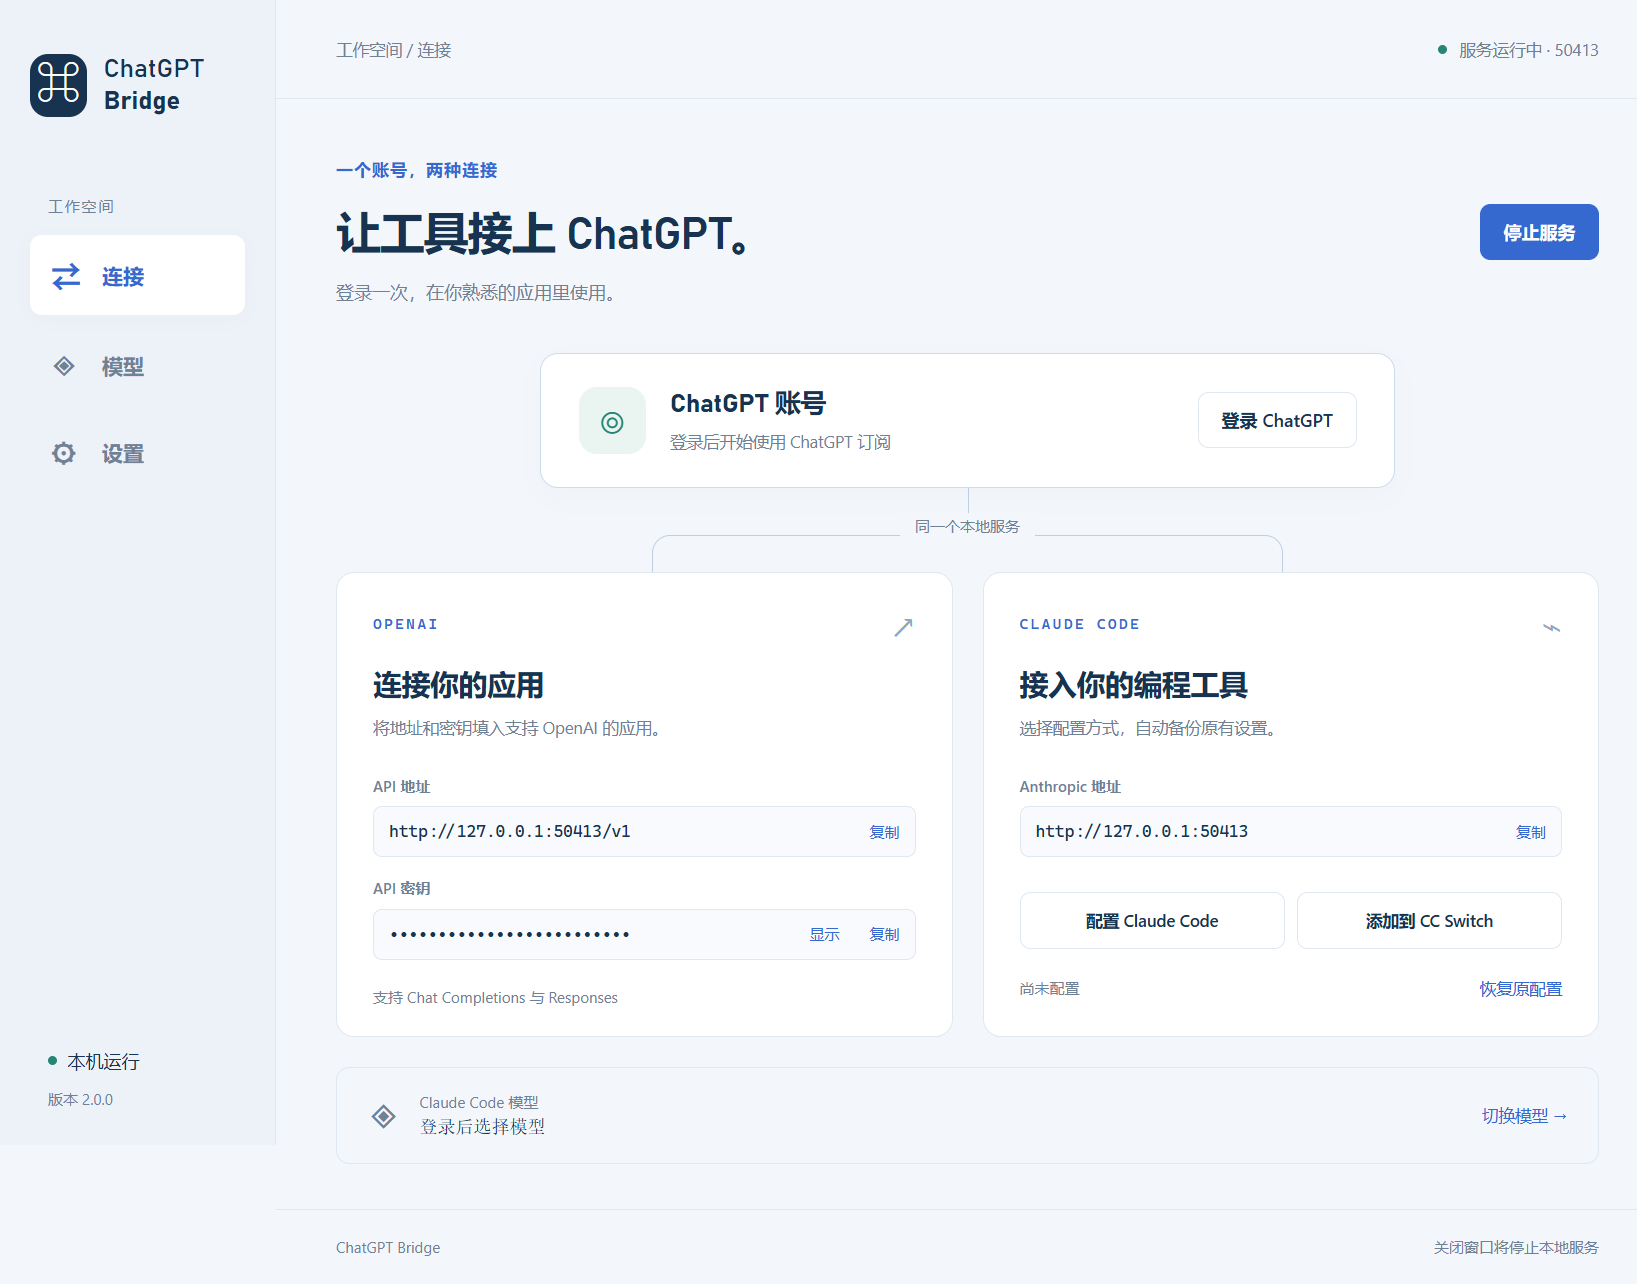
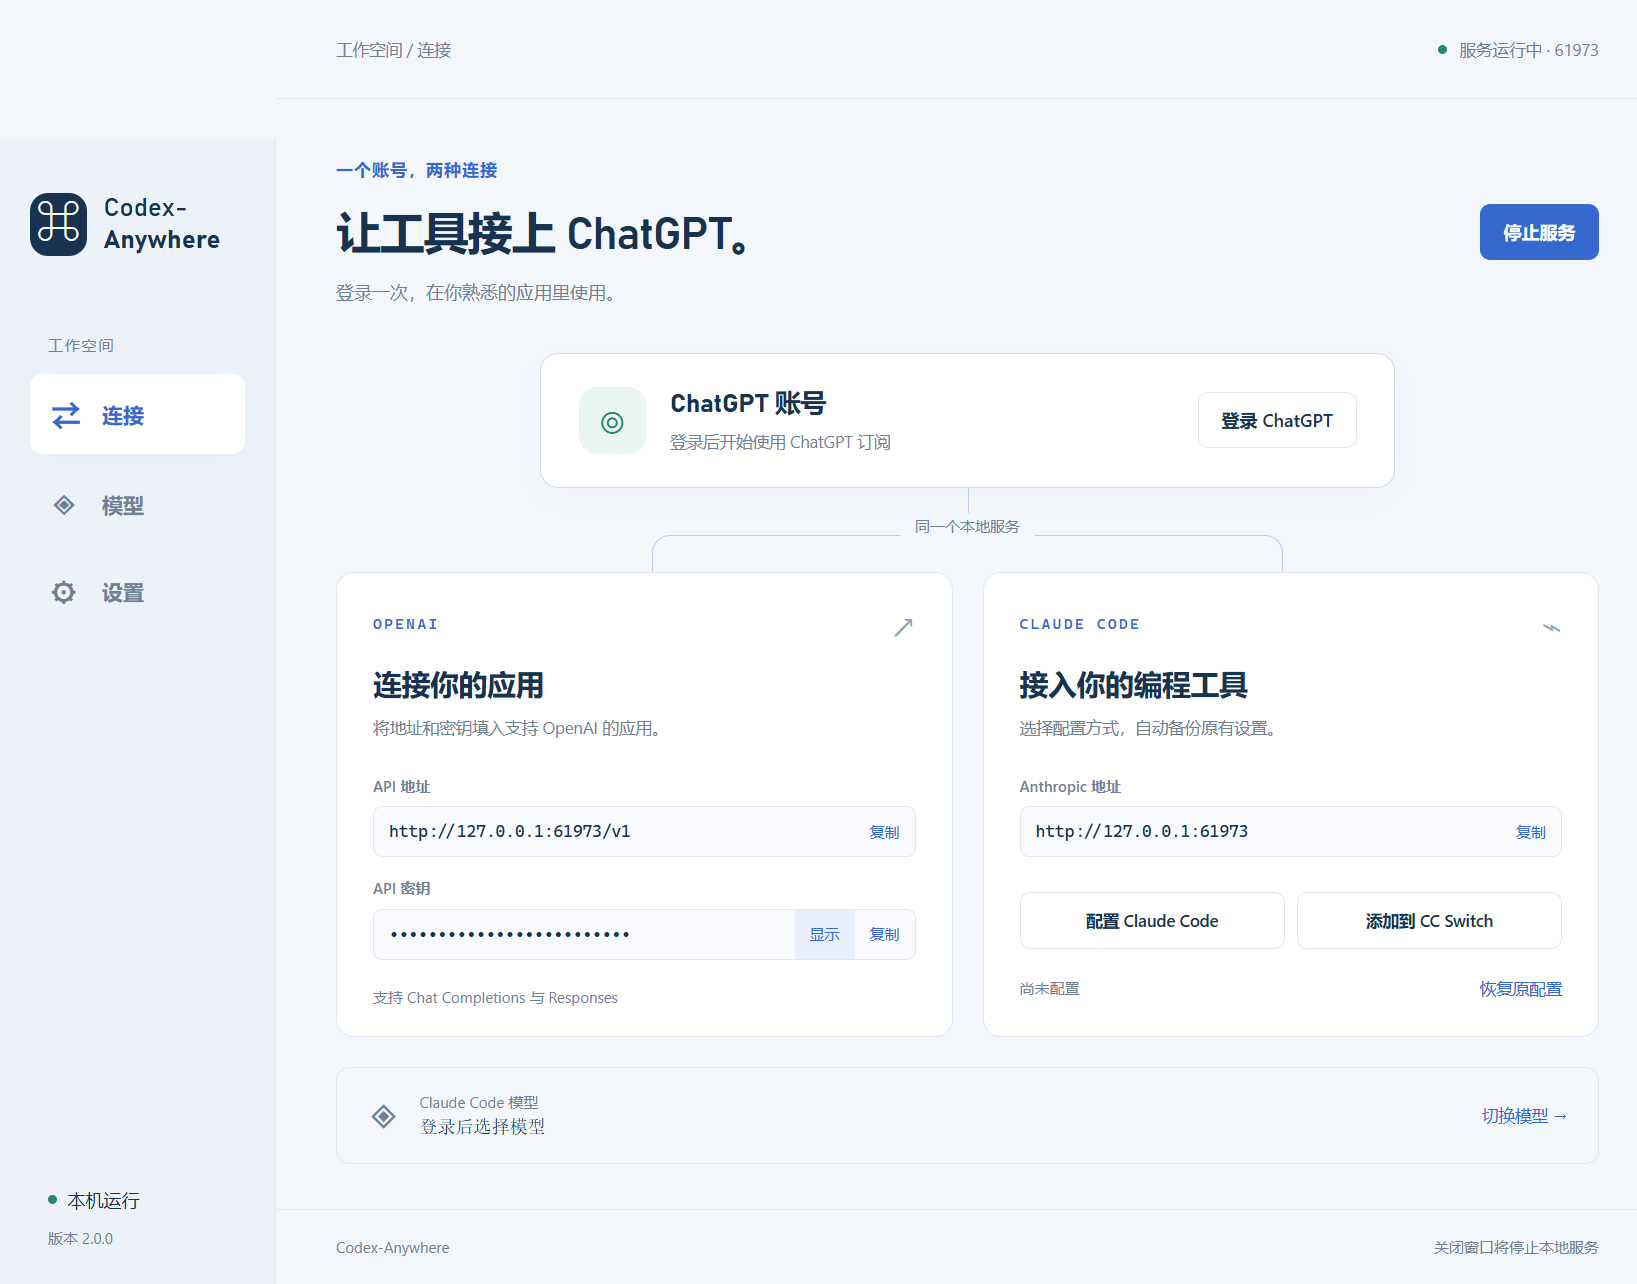
Rename product and repository references to Codex-Anywhere

diff --git a/src/desktop/renderer/index.html b/src/desktop/renderer/index.html
@@ -1,15 +1,15 @@
 <!doctype html>
 <html lang="zh-CN">
-<head><meta charset="UTF-8"><meta name="viewport" content="width=device-width,initial-scale=1"><meta http-equiv="Content-Security-Policy" content="default-src 'self'; script-src 'self'; style-src 'self'; img-src 'self' data:; connect-src 'none'; object-src 'none'; base-uri 'none'"><title>ChatGPT Bridge</title><link rel="stylesheet" href="styles.css"></head>
+<head><meta charset="UTF-8"><meta name="viewport" content="width=device-width,initial-scale=1"><meta http-equiv="Content-Security-Policy" content="default-src 'self'; script-src 'self'; style-src 'self'; img-src 'self' data:; connect-src 'none'; object-src 'none'; base-uri 'none'"><title>Codex-Anywhere</title><link rel="stylesheet" href="styles.css"></head>
 <body>
-<aside class="sidebar"><button class="brand" type="button" aria-label="ChatGPT Bridge 首页"><span class="brand-mark" aria-hidden="true">⌘</span><span>ChatGPT<br><strong>Bridge</strong></span></button><div class="nav-label">工作空间</div><nav aria-label="主导航"><button class="nav-item active" data-page="connections" aria-current="page"><span aria-hidden="true">⇄</span>连接</button><button class="nav-item" data-page="models"><span aria-hidden="true">◈</span>模型</button><button class="nav-item" data-page="settings"><span aria-hidden="true">⚙</span>设置</button></nav><div class="sidebar-bottom"><span class="local-label"><i></i>本机运行</span><small id="version">ChatGPT Bridge</small></div></aside>
+<aside class="sidebar"><button class="brand" type="button" aria-label="Codex-Anywhere 首页"><span class="brand-mark" aria-hidden="true">⌘</span><span>Codex-<br><strong>Anywhere</strong></span></button><div class="nav-label">工作空间</div><nav aria-label="主导航"><button class="nav-item active" data-page="connections" aria-current="page"><span aria-hidden="true">⇄</span>连接</button><button class="nav-item" data-page="models"><span aria-hidden="true">◈</span>模型</button><button class="nav-item" data-page="settings"><span aria-hidden="true">⚙</span>设置</button></nav><div class="sidebar-bottom"><span class="local-label"><i></i>本机运行</span><small id="version">Codex-Anywhere</small></div></aside>
 <main><header class="topbar"><span id="breadcrumb">工作空间 / 连接</span><span class="service-status" id="service-status"><i></i>正在读取状态</span></header><div class="content"><div id="notice" class="notice" role="status" aria-live="polite" hidden></div>
 <section id="page-connections" class="page"><div class="page-heading"><div><p class="eyebrow">一个账号，两种连接</p><h1>让工具接上 ChatGPT。</h1><p class="intro">登录一次，在你熟悉的应用里使用。</p></div><button id="toggle-service" class="button primary" disabled>读取状态中…</button></div>
 <div class="connection-map"><article class="account-card"><div class="account-icon" aria-hidden="true">◎</div><div class="account-copy"><h2>ChatGPT 账号</h2><p id="account-state">正在读取登录状态…</p></div><button id="login" class="button">登录 ChatGPT</button><button id="cancel-login" class="button" hidden>取消登录</button><button id="logout" class="button quiet" hidden>退出登录</button></article><div class="branch" aria-hidden="true"><span>同一个本地服务</span></div><div class="connections-grid"><article class="connection-card"><div class="card-top"><span class="protocol">OPENAI</span><span class="card-symbol" aria-hidden="true">↗</span></div><h2>连接你的应用</h2><p class="card-description">将地址和密钥填入支持 OpenAI 的应用。</p><label class="field-label" for="base-url">API 地址</label><div class="copy-field"><input id="base-url" readonly value="—"><button class="copy-button" data-copy="base-url" aria-label="复制 API 地址">复制</button></div><label class="field-label" for="api-key">API 密钥</label><div class="copy-field"><input id="api-key" type="password" readonly placeholder="启动后可用"><button class="copy-button" id="reveal-key" aria-label="显示 API 密钥">显示</button><button class="copy-button" data-copy="api-key" aria-label="复制 API 密钥">复制</button></div><p class="footnote">支持 Chat Completions 与 Responses</p></article>
 <article class="connection-card"><div class="card-top"><span class="protocol">CLAUDE CODE</span><span class="card-symbol" aria-hidden="true">⌁</span></div><h2>接入你的编程工具</h2><p class="card-description">选择配置方式，自动备份原有设置。</p><label class="field-label" for="anthropic-url">Anthropic 地址</label><div class="copy-field"><input id="anthropic-url" readonly value="—"><button class="copy-button" data-copy="anthropic-url" aria-label="复制 Anthropic 地址">复制</button></div><div class="integrate-actions"><button class="button" data-integrate="direct">配置 Claude Code</button><button class="button" data-integrate="cc-switch">添加到 CC Switch</button></div><div class="integration-footer"><span id="integration-state">尚未配置</span><button id="restore" class="text-button">恢复原配置</button></div></article></div></div><div class="model-strip"><span class="model-dot" aria-hidden="true">◈</span><div><small>Claude Code 模型</small><strong id="current-model">尚未选择</strong></div><button class="text-button" data-page="models">切换模型 <span aria-hidden="true">→</span></button></div>
 </section>
 <section id="page-models" class="page" hidden><div class="page-heading"><div><p class="eyebrow">适合手头的工作</p><h1>选择模型</h1><p class="intro">选择 Claude Code 使用的模型；其他应用可自行指定。</p></div><button id="refresh-models" class="button">刷新列表</button></div><div class="panel"><div class="panel-heading"><h2>可用模型</h2><span id="model-count" class="subtle"></span></div><div id="model-list" class="model-list"><p class="empty">登录 ChatGPT 后，刷新列表查看可用模型。</p></div></div></section>
-<section id="page-settings" class="page" hidden><div class="page-heading"><div><p class="eyebrow">按你的习惯运行</p><h1>设置</h1><p class="intro">连接、启动和本地数据。</p></div></div><div class="panel"><h2>网络代理</h2><p class="subtle">填写 HTTP 或 HTTPS 代理地址；留空直接连接。</p><form id="proxy-form"><label class="field-label" for="proxy">代理地址</label><div class="settings-input-row"><input id="proxy" type="text" spellcheck="false" placeholder="http://127.0.0.1:7890" autocomplete="off"><button class="button primary" type="submit">保存代理</button><button id="test-connection" class="button" type="button">检测连接</button></div></form><p class="footnote">检测使用已保存的代理设置。修改地址后，请先保存代理。</p><div id="connection-result" class="connection-result" role="status" aria-live="polite" hidden></div></div><div class="panel setting-row"><div><h2>开机启动</h2><p class="subtle">登录电脑时打开 ChatGPT Bridge。</p></div><label class="switch"><input id="launch-at-login" type="checkbox"><span aria-hidden="true"></span><span class="sr-only">开机启动</span></label></div><div class="panel setting-row"><div><h2>本地数据</h2><p class="subtle">账号信息、设置和配置备份保存在本机。</p><p id="state-dir" class="data-path"></p></div><button id="open-data" class="button">打开文件夹</button></div></section>
-</div><footer>ChatGPT Bridge <span>关闭窗口将停止本地服务</span></footer></main>
+<section id="page-settings" class="page" hidden><div class="page-heading"><div><p class="eyebrow">按你的习惯运行</p><h1>设置</h1><p class="intro">连接、启动和本地数据。</p></div></div><div class="panel"><h2>网络代理</h2><p class="subtle">填写 HTTP 或 HTTPS 代理地址；留空直接连接。</p><form id="proxy-form"><label class="field-label" for="proxy">代理地址</label><div class="settings-input-row"><input id="proxy" type="text" spellcheck="false" placeholder="http://127.0.0.1:7890" autocomplete="off"><button class="button primary" type="submit">保存代理</button><button id="test-connection" class="button" type="button">检测连接</button></div></form><p class="footnote">检测使用已保存的代理设置。修改地址后，请先保存代理。</p><div id="connection-result" class="connection-result" role="status" aria-live="polite" hidden></div></div><div class="panel setting-row"><div><h2>开机启动</h2><p class="subtle">登录电脑时打开 Codex-Anywhere。</p></div><label class="switch"><input id="launch-at-login" type="checkbox"><span aria-hidden="true"></span><span class="sr-only">开机启动</span></label></div><div class="panel setting-row"><div><h2>本地数据</h2><p class="subtle">账号信息、设置和配置备份保存在本机。</p><p id="state-dir" class="data-path"></p></div><button id="open-data" class="button">打开文件夹</button></div></section>
+</div><footer>Codex-Anywhere <span>关闭窗口将停止本地服务</span></footer></main>
 <dialog id="confirm-dialog"><form method="dialog"><span class="dialog-icon" aria-hidden="true">⇄</span><h2 id="confirm-title">确认配置</h2><p id="confirm-description"></p><div class="dialog-actions"><button class="button" value="cancel">取消</button><button id="confirm-action" class="button primary" value="confirm">确认</button></div></form></dialog>
 <script src="app.js"></script></body></html>

diff --git a/src/desktop/renderer/app.js b/src/desktop/renderer/app.js
@@ -39,8 +39,8 @@ $('cancel-login').addEventListener('click', () => action(() => api('cancelLogin'
 $('logout').addEventListener('click', async () => { if (await confirmAction('退出 ChatGPT 账号？', '退出后，连接的应用将无法继续使用此账号。你可以随时重新登录。', '退出登录')) action(() => api('logout'), '已退出登录'); });
 document.querySelectorAll('[data-copy]').forEach(button => button.addEventListener('click', async () => { const value = $(button.dataset.copy).value; if (!value) return notice('地址或密钥尚未就绪，请先启动服务。', true); try { await api('copy', value); notice(button.dataset.copy === 'api-key' ? '已复制 API 密钥' : '已复制连接地址'); } catch (error) { notice(errorText(error), true); } }));
 $('reveal-key').addEventListener('click', () => { const show = $('api-key').type === 'password'; $('api-key').type = show ? 'text' : 'password'; $('reveal-key').textContent = show ? '隐藏' : '显示'; $('reveal-key').setAttribute('aria-label', show ? '隐藏 API 密钥' : '显示 API 密钥'); });
-document.querySelectorAll('[data-integrate]').forEach(button => button.addEventListener('click', async () => { const mode = button.dataset.integrate, direct = mode === 'direct'; if (await confirmAction(direct ? '配置 Claude Code' : '添加到 CC Switch', direct ? '将备份现有 Claude Code 配置，并将连接地址、密钥和模型改为本地服务。你可以通过「恢复原配置」撤销。' : '将备份 CC Switch 现有配置，并添加 ChatGPT Bridge 连接。你可以通过「恢复原配置」撤销。', '备份并配置')) action(() => api('integrate', mode), '配置已更新'); }));
-$('restore').addEventListener('click', async () => { if (await confirmAction('恢复原配置？', '仅恢复由 ChatGPT Bridge 管理的配置项，并保留之后的其他修改。使用 CC Switch 时，请先退出 CC Switch 再恢复。', '恢复原配置')) action(() => api('restore'), '已恢复原配置'); });
+document.querySelectorAll('[data-integrate]').forEach(button => button.addEventListener('click', async () => { const mode = button.dataset.integrate, direct = mode === 'direct'; if (await confirmAction(direct ? '配置 Claude Code' : '添加到 CC Switch', direct ? '将备份现有 Claude Code 配置，并将连接地址、密钥和模型改为本地服务。你可以通过「恢复原配置」撤销。' : '将备份 CC Switch 现有配置，并添加 Codex-Anywhere 连接。你可以通过「恢复原配置」撤销。', '备份并配置')) action(() => api('integrate', mode), '配置已更新'); }));
+$('restore').addEventListener('click', async () => { if (await confirmAction('恢复原配置？', '仅恢复由 Codex-Anywhere 管理的配置项，并保留之后的其他修改。使用 CC Switch 时，请先退出 CC Switch 再恢复。', '恢复原配置')) action(() => api('restore'), '已恢复原配置'); });
 $('refresh-models').addEventListener('click', () => action(async () => { const result = await api('models'); availableModels = Array.isArray(result) ? result : result?.models || []; }, '模型列表已刷新'));
 $('proxy').addEventListener('input', () => { $('proxy').dataset.dirty = 'true'; });
 $('proxy-form').addEventListener('submit', event => { event.preventDefault(); action(async () => { await api('setProxy', $('proxy').value.trim()); delete $('proxy').dataset.dirty; }, '代理设置已保存'); });

diff --git a/README.md b/README.md
@@ -1,12 +1,12 @@
 <div align="center">
 
-# ChatGPT Bridge
+# Codex-Anywhere
 
 [简体中文](docs/README.zh-CN.md) · [繁體中文](docs/README.zh-TW.md) · [English](README.md)
 
 **Use your ChatGPT subscription through a local API key.**
 
-[Download for Windows](https://github.com/NamelessDDDoge/chatgpt-plan-bridge/releases/latest) · [Usage guide](docs/USER-GUIDE.txt) · [Contributing](docs/CONTRIBUTING.md)
+[Download for Windows](https://github.com/NamelessDDDoge/Codex-Anywhere/releases/latest) · [Usage guide](docs/USER-GUIDE.txt) · [Contributing](docs/CONTRIBUTING.md)
 
 ![Windows x64](https://img.shields.io/badge/Windows-x64-36665D?style=flat-square)
 ![Electron desktop](https://img.shields.io/badge/Electron-desktop-506479?style=flat-square)
@@ -14,11 +14,11 @@
 
 </div>
 
-![ChatGPT Bridge desktop showing ChatGPT sign-in and OpenAI and Claude Code connection controls](docs/assets/desktop.png)
+![Codex-Anywhere desktop showing ChatGPT sign-in and OpenAI and Claude Code connection controls](docs/assets/desktop.png)
 
 *Actual Electron window before sign-in, captured with isolated test data and a masked key. The temporary test port shown differs from the default `17863`.*
 
-ChatGPT Bridge brings the former **Plan Bridge** and **API Gateway** together in one standalone Electron application. Sign in once, start one local service, and connect Claude Code or applications that accept an OpenAI-compatible API. Desktop installers are the only release format.
+Codex-Anywhere brings the former **Plan Bridge** and **API Gateway** together in one standalone Electron application. Sign in once, start one local service, and connect Claude Code or applications that accept an OpenAI-compatible API. Desktop installers are the only release format.
 
 The app uses OpenAI's Sign in with ChatGPT Devkit. Eligible accounts can authorize requests against their ChatGPT plan allowance through this [documented integration](https://developers.openai.com/cookbook/articles/sign-in-with-chatgpt). It does not reverse-proxy the ChatGPT website or reuse browser cookies. The bridge translates client requests locally; its API key secures that local service and is not an OpenAI platform API key.
 
@@ -26,14 +26,14 @@ Use remains subject to account eligibility, plan limits, OpenAI's terms, and the
 
 ```mermaid
 flowchart RL
-    C[Claude Code] -->|Anthropic Messages| B[ChatGPT Bridge desktop]
+    C[Claude Code] -->|Anthropic Messages| B[Codex-Anywhere desktop]
     A[OpenAI-compatible apps] -->|Chat Completions / Responses| B
     B -->|One account · one local service| S[ChatGPT subscription models]
 ```
 
 ## Get connected
 
-1. Download the Windows x64 installer from [the latest release](https://github.com/NamelessDDDoge/chatgpt-plan-bridge/releases/latest) and open **ChatGPT Bridge**. The desktop package includes its runtime; a separate Node.js installation is unnecessary.
+1. Download the Windows x64 installer from [the latest release](https://github.com/NamelessDDDoge/Codex-Anywhere/releases/latest) and open **Codex-Anywhere**. The desktop package includes its runtime; a separate Node.js installation is unnecessary.
 2. Sign in with ChatGPT in your browser, then refresh the available models.
 3. Start the local service. Copy its URL and local API key into your application, or use the Claude Code connection controls.
 
@@ -41,7 +41,7 @@ Claude Code and CC Switch are optional, separately installed clients. You do not
 
 ## One place for every connection
 
-| You want to… | In ChatGPT Bridge |
+| You want to… | In Codex-Anywhere |
 | --- | --- |
 | Use an OpenAI-compatible app | Copy the base URL and local API key; use `/v1/models` to find a model ID. |
 | Connect Claude Code | Apply direct configuration, or add the provider to CC Switch. |
@@ -75,7 +75,7 @@ All endpoints use the same local service and credentials. The default address is
 
 Quit the old Bridge/Gateway manager and stop its service before opening the desktop app. Existing data stays in place: the app reuses `%LOCALAPPDATA%\ChatGPTClaudeBridge` first, then `%LOCALAPPDATA%\ChatGPTGateway` if no Bridge directory exists. A fresh installation uses `%LOCALAPPDATA%\ChatGPTBridge`. When both legacy directories exist, Bridge takes precedence; credentials are not merged or copied.
 
-If Claude Code reports `ECONNREFUSED`, check the address in the error. CC Switch may point Claude Code at `127.0.0.1:15721`; that proxy can be offline even while ChatGPT Bridge on `17863` is healthy. Start CC Switch and its proxy, or explicitly choose direct Claude Code configuration in the desktop app.
+If Claude Code reports `ECONNREFUSED`, check the address in the error. CC Switch may point Claude Code at `127.0.0.1:15721`; that proxy can be offline even while Codex-Anywhere on `17863` is healthy. Start CC Switch and its proxy, or explicitly choose direct Claude Code configuration in the desktop app.
 
 In **Settings**, save the proxy before clicking **检测连接** (Check connection). This checks the saved proxy, authorization/API connectivity, and Claude Code's current local route. It does not send a model prompt or display credentials.
 
@@ -108,7 +108,7 @@ npm run test:desktop     # Desktop UI tests
 npm run dist             # Build the Windows desktop installer
 ```
 
-The installer is named `ChatGPT-Bridge-Setup-2.0.0-x64.exe`. Building an installer does not publish a release. Online tests require an authorized account and consume subscription quota; keep their outputs private until sanitized.
+The installer is named `Codex-Anywhere-Setup-2.0.0-x64.exe`. Building an installer does not publish a release. Online tests require an authorized account and consume subscription quota; keep their outputs private until sanitized.
 
 See [CONTRIBUTING.md](docs/CONTRIBUTING.md) for development and test isolation. Preserve [third-party notices](docs/THIRD-PARTY-NOTICES.md), the [project license](LICENSE), and the [OpenAI Devkit license](vendor/siwc/LICENSE).
 

diff --git a/docs/RELEASE.md b/docs/RELEASE.md
@@ -1,4 +1,4 @@
-# ChatGPT Bridge 2.0
+# Codex-Anywhere 2.0
 
 一个独立的 Electron 桌面应用，统一原来的 Plan Bridge 和 API Gateway。
 
@@ -9,7 +9,7 @@
 - 设置中的“检测连接”检查已保存的代理、授权/API 和 Claude Code 当前本地路由，不发送模型提示词或显示凭据。
 - 安装包内置运行环境；关闭应用时停止本地服务。
 
-下载 `ChatGPT-Bridge-Setup-2.0.0-x64.exe`，适用于 Windows 10/11 x64。先退出旧版 Bridge/Gateway，以免占用端口。旧 Bridge 配置优先沿用，其次沿用 Gateway 配置；若两者都存在，使用 Bridge 的授权。账户权限和额度由上游决定。
+下载 `Codex-Anywhere-Setup-2.0.0-x64.exe`，适用于 Windows 10/11 x64。先退出旧版 Bridge/Gateway，以免占用端口。旧 Bridge 配置优先沿用，其次沿用 Gateway 配置；若两者都存在，使用 Bridge 的授权。账户权限和额度由上游决定。
 
 安装包尚未代码签名，可使用附带的 SHA-256 校验文件核对。卸载保留本地授权与配置；若需撤销 Claude Code 接入，请先在应用中点击“恢复原配置”。
 

diff --git a/docs/THIRD-PARTY-NOTICES.md b/docs/THIRD-PARTY-NOTICES.md
@@ -1,6 +1,6 @@
 # Third-party notices
 
-ChatGPT Bridge is an independent personal project. It is not an official OpenAI or Anthropic application.
+Codex-Anywhere is an independent personal project. It is not an official OpenAI or Anthropic application.
 
 ## OpenAI Sign in with ChatGPT Devkit
 
